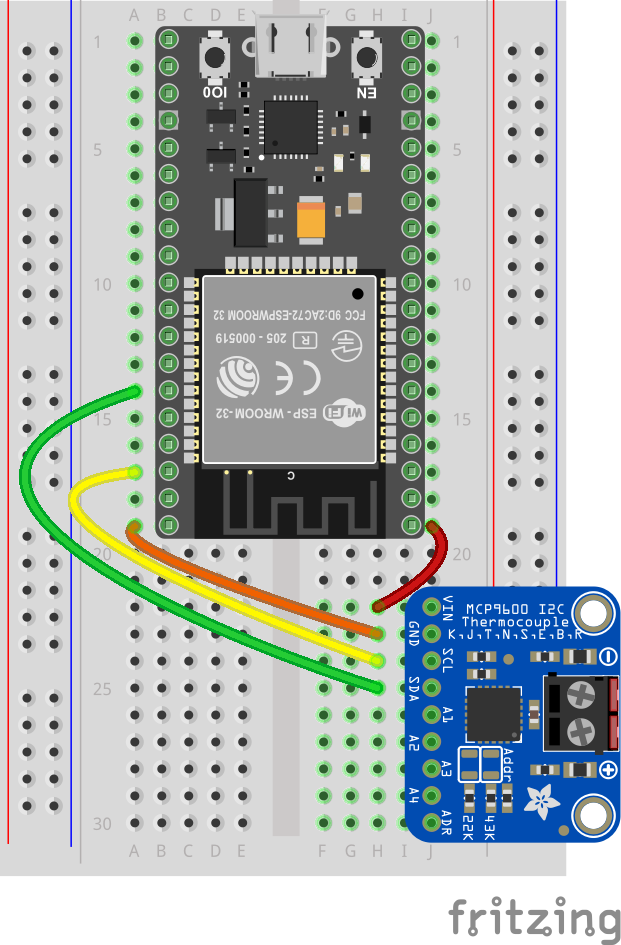
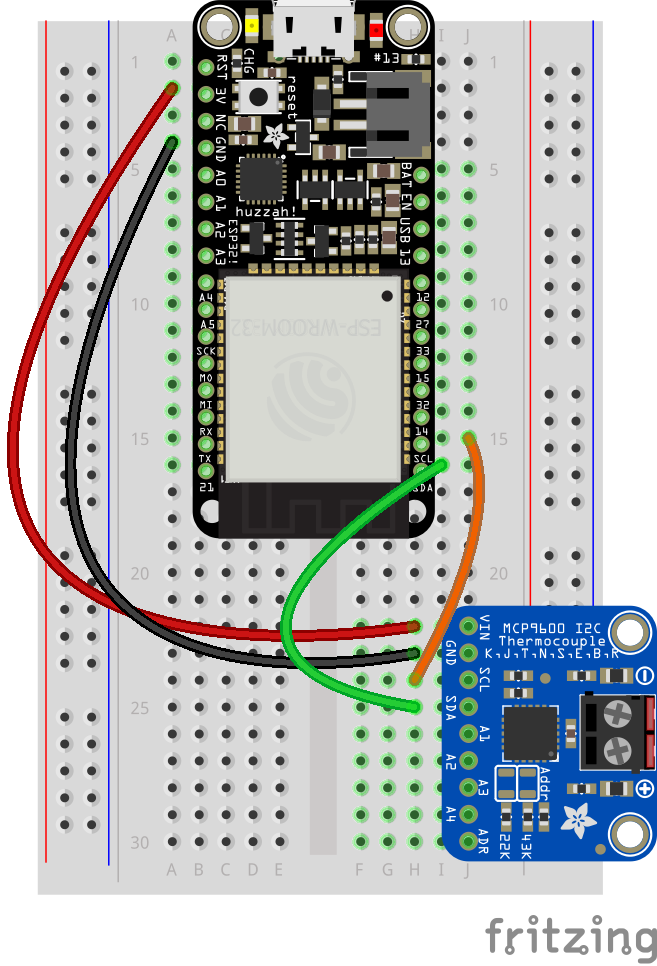
updates fritizing, formating

diff --git a/FreezerTempAlert/README.md b/FreezerTempAlert/README.md
@@ -6,7 +6,7 @@ This project takes about 60 to 90 minutes to build.
 ## Materials and Tech  
 |Materials | Description | Link |
 |-----|-------------|------|
-| ESP32 DevKit (a) | WiFi enabled prototyping board| [https://www.keyestudio.com/products/2019new-keyestudio-esp32-wroom-32d-module-core-board-wi-fibtble-mcu-for-arduino](https://www.keyestudio.com/products/2019new-keyestudio-esp32-wroom-32d-module-core-board-wi-fibtble-mcu-for-arduino)
+| Adafruit Feather Huzzah32 (a) | WiFi enabled ESP32 based prototyping board| [https://www.adafruit.com/product/3591](https://www.adafruit.com/product/3591)
 | Adafruit MCP9600 (b) | I2C Thermocouple amplifier| [https://www.adafruit.com/product/4101](https://www.adafruit.com/product/4101) |
 | Adafruit Type K Thermocouple (c) | 2 wire thermocouple effective temperature ranger -200c to 800c +/-2c| [https://www.adafruit.com/product/3245](https://www.adafruit.com/product/3245) |
 | Jumper Wires (d) || [https://www.adafruit.com/product/1956](https://www.adafruit.com/product/1956) |
@@ -24,6 +24,9 @@ This project takes about 60 to 90 minutes to build.
 | 00 Philips Head Screw Driver|
 | Soldering Iron |
 
+
+> The pictures below use a generic ESP32 Dev board, new picture with the Adafruit Huzzah32 coming soon!
+
 ![Picture of all the materials used in the project](/media/allmaterials.jpg)
 
 ## Prerequisites
@@ -37,6 +40,7 @@ This project takes about 60 to 90 minutes to build.
     ![](/media/build01.jpg)
 1. Solder the pins to the bottom side of the MCP9600.  
     > *Tip: Put the pins in the breadboard to hold them in place when soldering.*
+
     ![](/media/build02.jpg)
 1. Connect the ESP32 and MCP9600 to the breadboard.
 1. Follow the wiring diagram below to connect the MCP9600 to the ESP32 using your jumper wires.
